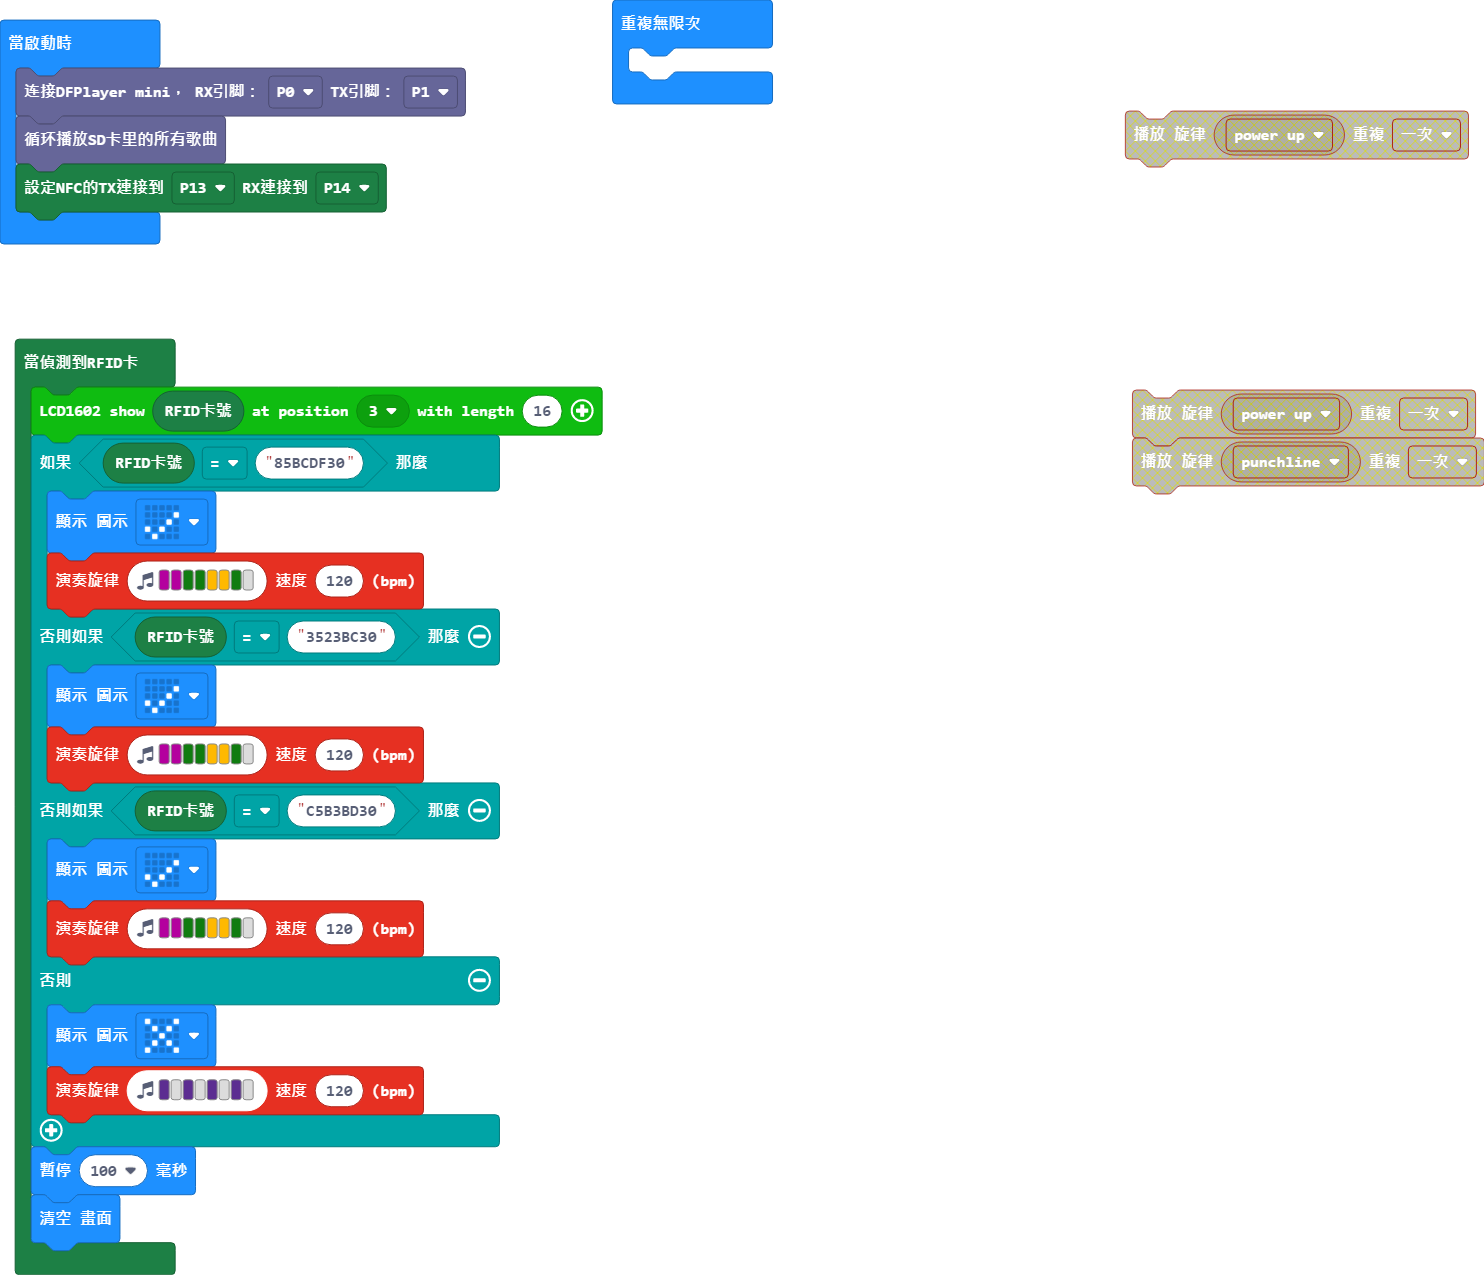
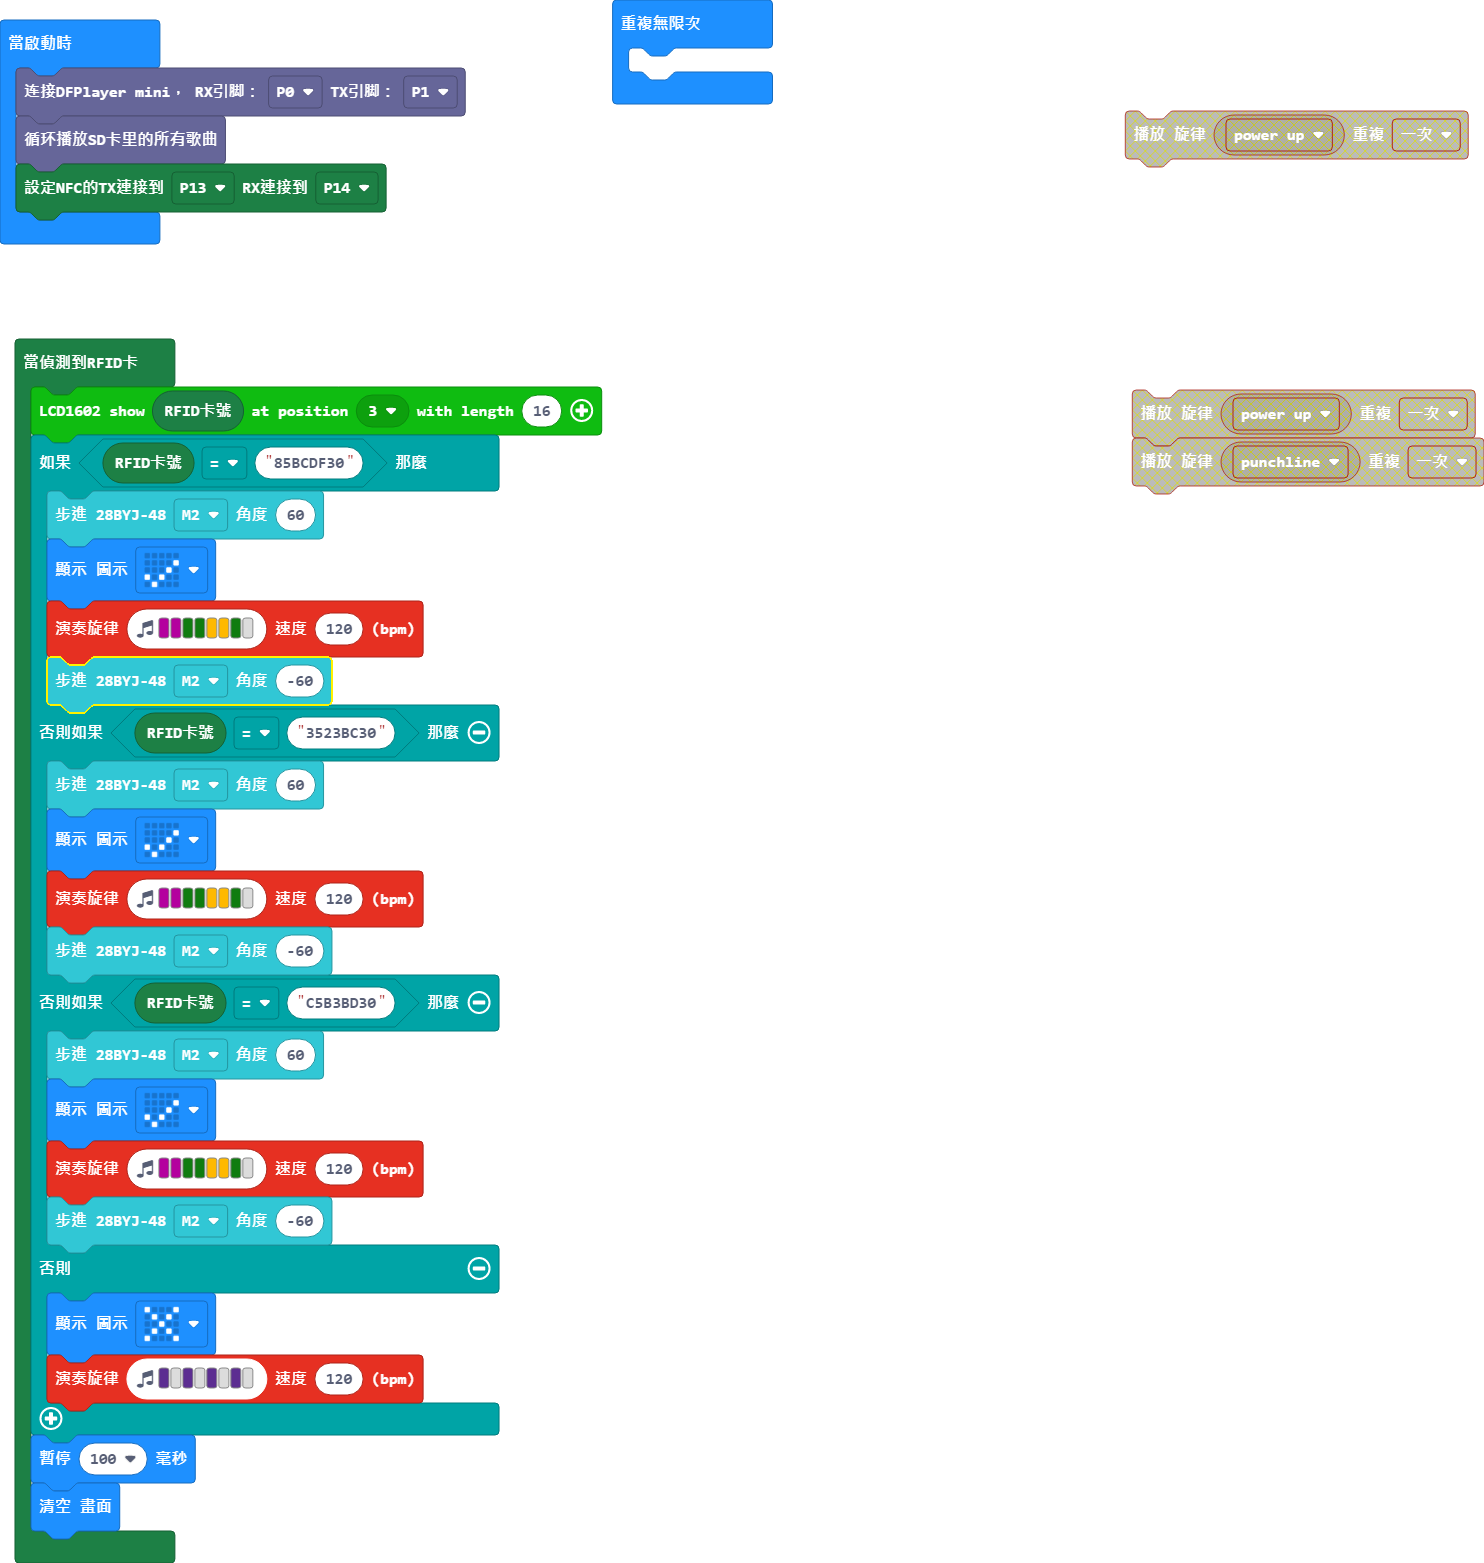
Update main.blocks, main.ts

diff --git a/main.ts b/main.ts
@@ -1,14 +1,20 @@
 NFC.nfcEvent(function () {
     makerbit.showStringOnLcd1602(NFC.getUID(), makerbit.position1602(LcdPosition1602.Pos3), 16)
     if (NFC.getUID() == "85BCDF30") {
+        robotbit.StepperDegree(robotbit.Steppers.M2, 60)
         basic.showIcon(IconNames.Yes)
         music.playMelody("C C G G A A G - ", 120)
+        robotbit.StepperDegree(robotbit.Steppers.M2, -60)
     } else if (NFC.getUID() == "3523BC30") {
+        robotbit.StepperDegree(robotbit.Steppers.M2, 60)
         basic.showIcon(IconNames.Yes)
         music.playMelody("C C G G A A G - ", 120)
+        robotbit.StepperDegree(robotbit.Steppers.M2, -60)
     } else if (NFC.getUID() == "C5B3BD30") {
+        robotbit.StepperDegree(robotbit.Steppers.M2, 60)
         basic.showIcon(IconNames.Yes)
         music.playMelody("C C G G A A G - ", 120)
+        robotbit.StepperDegree(robotbit.Steppers.M2, -60)
     } else {
         basic.showIcon(IconNames.No)
         music.playMelody("D - D - D - D - ", 120)
